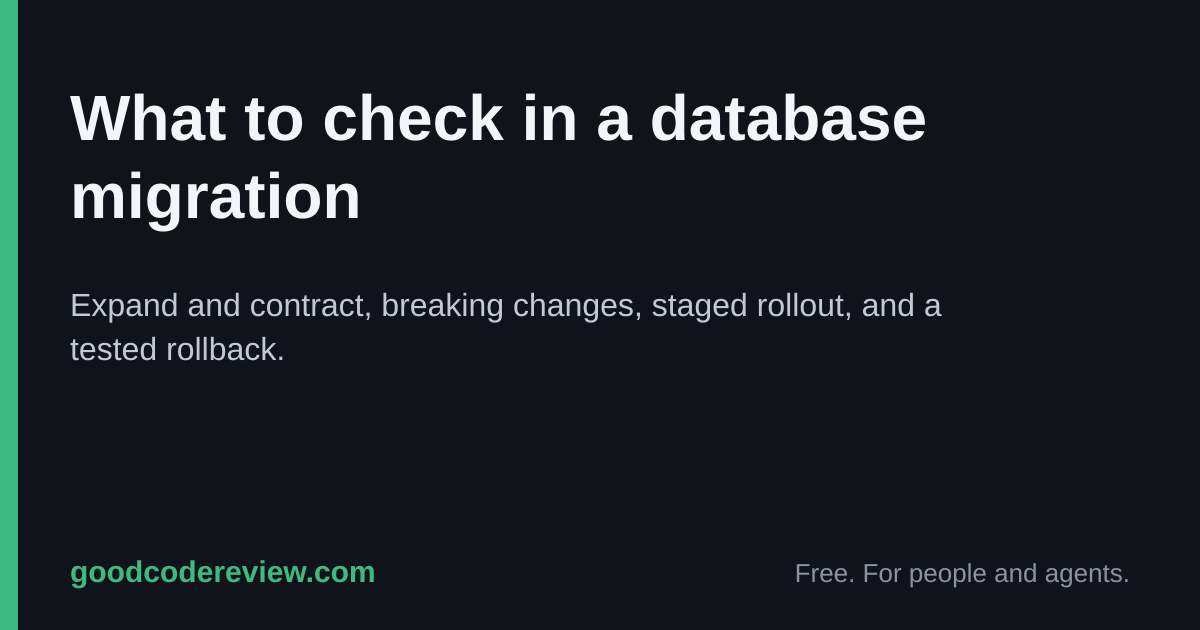
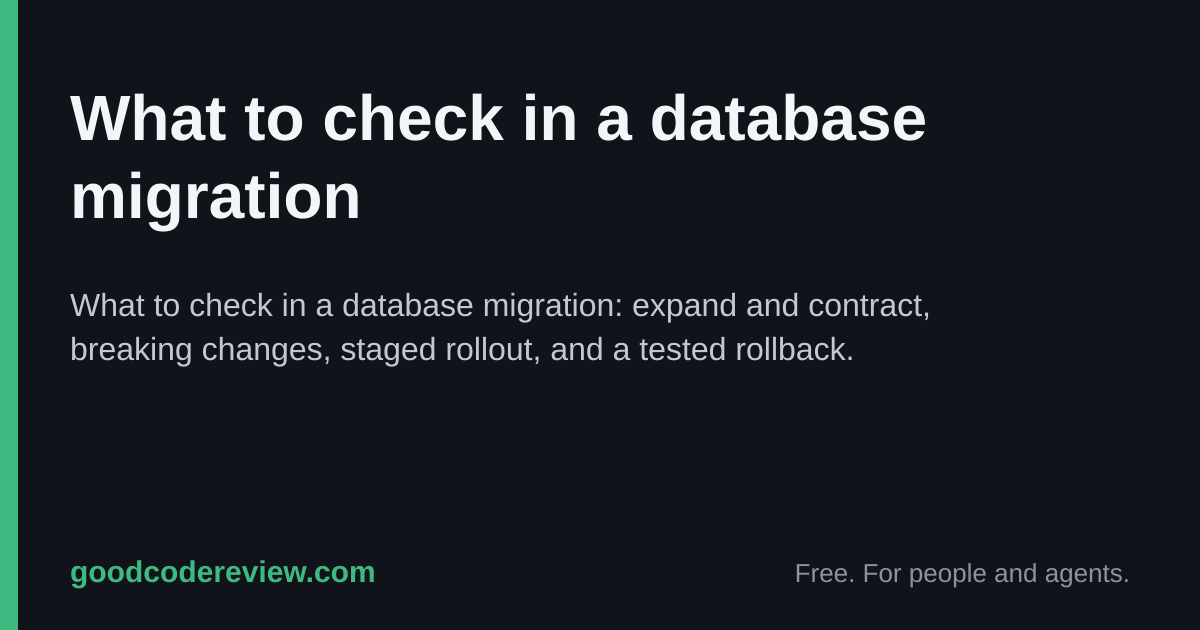
Rewrite part descriptions and count vetted checks only

Changed region(s): [[0.0617, 0.4524, 0.8017, 0.573]]

diff --git a/tools/seo.py b/tools/seo.py
@@ -63,23 +63,39 @@ META: dict[str, tuple[str, str]] = {
               "How to audit a whole repo, service, or release with the same cards: scope, read order, missing controls, accepted risk, and the report shape."),
 }
 
-# The name of each part of a split level, in search wording; a part with no entry keeps "<level>, <part> cards". Used for the h1, <title> and share cards.
-PART_TITLES: dict[str, str] = {
-    "function-ui": "Frontend and Accessibility Review Checklist",
-    "function-any": "Clean Code Review Checklist",
-    "function-server": "API Handler Security Review Checklist",
-    "function-data": "Data Access Code Review Checklist",
-    "function-cli": "CLI Command Code Review Checklist",
-    "service-server": "Backend Service Review Checklist",
-    "service-server-security": "API Security Review Checklist",
-    "service-server-reliability": "Service Reliability Review Checklist",
-    "service-server-compatibility": "API Design and Compatibility Checklist",
-    "service-server-correctness": "API Correctness Review Checklist",
-    "service-server-other": "HTTP API Review Checklist",
-    "service-ui": "Frontend App Review Checklist",
-    "service-cli": "CLI Tool Review Checklist",
-    "service-data": "Data Service Review Checklist",
-    "service-any": "Resilience and Performance Checklist",
+# Each part of a split level: its name in search wording (h1, <title>, share card) and what its description says it reviews.
+# A part with no entry keeps "<level>, <part> cards".
+PARTS: dict[str, tuple[str, str]] = {
+    "function-ui": ("Frontend and Accessibility Review Checklist",
+        "front-end functions for accessibility, usability, forms, and CSS"),
+    "function-any": ("Clean Code Review Checklist",
+        "any function for readability, correctness, and maintainability"),
+    "function-server": ("API Handler Security Review Checklist",
+        "server-side functions for authentication, authorisation, and crypto"),
+    "function-data": ("Data Access Code Review Checklist",
+        "database and data access code for correctness and performance"),
+    "function-cli": ("CLI Command Code Review Checklist",
+        "command-line code, from secret handling to what it prints"),
+    "service-server": ("Backend Service Review Checklist",
+        "a backend service: its API, its security, and how it fails"),
+    "service-server-security": ("API Security Review Checklist",
+        "API security: authentication, authorisation, sessions, and TLS"),
+    "service-server-reliability": ("Service Reliability Review Checklist",
+        "a service for reliability: idempotency, retries, queues, and limits"),
+    "service-server-compatibility": ("API Design and Compatibility Checklist",
+        "API changes for versioning, error shape, and deprecation"),
+    "service-server-correctness": ("API Correctness Review Checklist",
+        "how an API handles bad input, documented errors, and concurrent writes"),
+    "service-server-other": ("HTTP API Review Checklist",
+        "HTTP API behaviour such as caching, naming, logging, and paging"),
+    "service-ui": ("Frontend App Review Checklist",
+        "a web front end for usability, accessibility, and performance"),
+    "service-cli": ("CLI Tool Review Checklist",
+        "a command-line tool for safe automation and maintainability"),
+    "service-data": ("Data Service Review Checklist",
+        "a data service for injection, tenant isolation, and data handling"),
+    "service-any": ("Resilience and Performance Checklist",
+        "any service for reliability, resilience, and performance"),
 }
 
 PAGE_TYPE: dict[str, str] = {**{k: "CollectionPage" for k in ("concerns", "glossary", "drafts", "guides", *map(str, LEVELS))}, "about": "AboutPage"}

diff --git a/tools/site_pages.py b/tools/site_pages.py
@@ -4,7 +4,7 @@ import re
 from collections.abc import Callable
 
 from agent_ready_check import Page
-from card_fields import concerns, lacks, topics
+from card_fields import concerns, is_stable, lacks, topics
 from config import MIN_PART, PAGE_MAX, REPO, SITE_DESC
 from context import BuildInput, pack_name
 from errors import BuildError
@@ -43,7 +43,7 @@ from prose import (
     PRIVACY_DESC,
     VERDICT,
 )
-from seo import MAX_DESC, MIN_DESC, PART_TITLES, home_ld
+from seo import MAX_DESC, MIN_DESC, PARTS, home_ld
 from shell import page
 
 INSTALL_SKILL = "npx skills add n0nuser/goodcodereview"
@@ -54,10 +54,16 @@ CONCERNS_INTRO = ("<p>Every card's rule on one page, and each row links to the f
                   "Add <code>.md</code> or use <code>cards.json</code> for the same view as text or JSON.</p>")
 
 
+def part_name(lv: Level, g: str, cards: list[Card]) -> tuple[str, str]:
+    """The title and description of one part. The description counts stable cards only: a draft is not vetted."""
+    title, covers = PARTS.get(f"{lv}-{g}", (f"{NAME[lv]}, {g} cards", f"the {g} part of the {lv} level"))
+    n = sum(is_stable(c) for c in cards)
+    return title, f"Review {covers}. {n} vetted check{'' if n == 1 else 's'} with FAIL and PASS examples and sources."
+
+
 def part_spec(lv: Level, g: str, cards: list[Card]) -> PageSpec:
     """The page for one context of a split level. Raises BuildError when its description breaks the search-snippet length."""
-    title = PART_TITLES.get(f"{lv}-{g}", f"{NAME[lv]}, {g} cards")
-    desc = f"{title}: {len(cards)} rules, each with a FAIL and a PASS example and links to the organisations that back it."
+    title, desc = part_name(lv, g, cards)
     if not MIN_DESC <= len(desc) <= MAX_DESC:
         raise BuildError(f"{lv}-{g}.html: description is {len(desc)} characters, want {MIN_DESC} to {MAX_DESC}")
     intro = f"<p>{LEVEL_DESC[lv]} This page holds the cards for the <code>{g}</code> {'part' if '-' in g else 'context'}. The <a href=\"{lv}.html\">{NAME[lv]}</a> page lists every card. {VERDICT}</p>"
@@ -67,8 +73,7 @@ def part_spec(lv: Level, g: str, cards: list[Card]) -> PageSpec:
 def hub_spec(b: BuildInput, lv: Level, g: str, cards: list[Card]) -> PageSpec:
     """The page for a context that was split again: it links each of its parts, and its rows keep the old `page#card-id` links alive."""
     parts = {b.part_of(c): sum(b.part_of(x) == b.part_of(c) for x in cards) for c in cards}
-    title = PART_TITLES.get(f"{lv}-{g}", f"{NAME[lv]}, {g} cards")
-    desc = f"{title}: {len(cards)} rules on {len(parts)} pages, each linked to its full text and the organisations that back it."
+    title, desc = part_name(lv, g, cards)
     if not MIN_DESC <= len(desc) <= MAX_DESC:
         raise BuildError(f"{lv}-{g}.html: description is {len(desc)} characters, want {MIN_DESC} to {MAX_DESC}")
     links = ", ".join(f'<a href="{lv}-{p}.html">{p}</a> ({n})' for p, n in parts.items())

diff --git a/tools/og_images.py b/tools/og_images.py
@@ -37,8 +37,6 @@ def svg(title: str, desc: str) -> str:
         return "".join(f'<text x="70" y="{y + i * step}" font-family="Liberation Sans, Arial" font-size="{size}" font-weight="{weight}" fill="{fill}">{html.escape(s)}</text>'
                        for i, s in enumerate(textwrap.wrap(text, width)[:3]))
 
-    desc = desc.removeprefix(f"{title}: ")  # the title is already above it
-    desc = desc[:1].upper() + desc[1:]
     top = 140
     below = top + len(textwrap.wrap(title, 28)[:3]) * 78 + 20
     return (f'<svg xmlns="http://www.w3.org/2000/svg" width="{OG_IMAGE_WIDTH}" height="{OG_IMAGE_HEIGHT}">'
